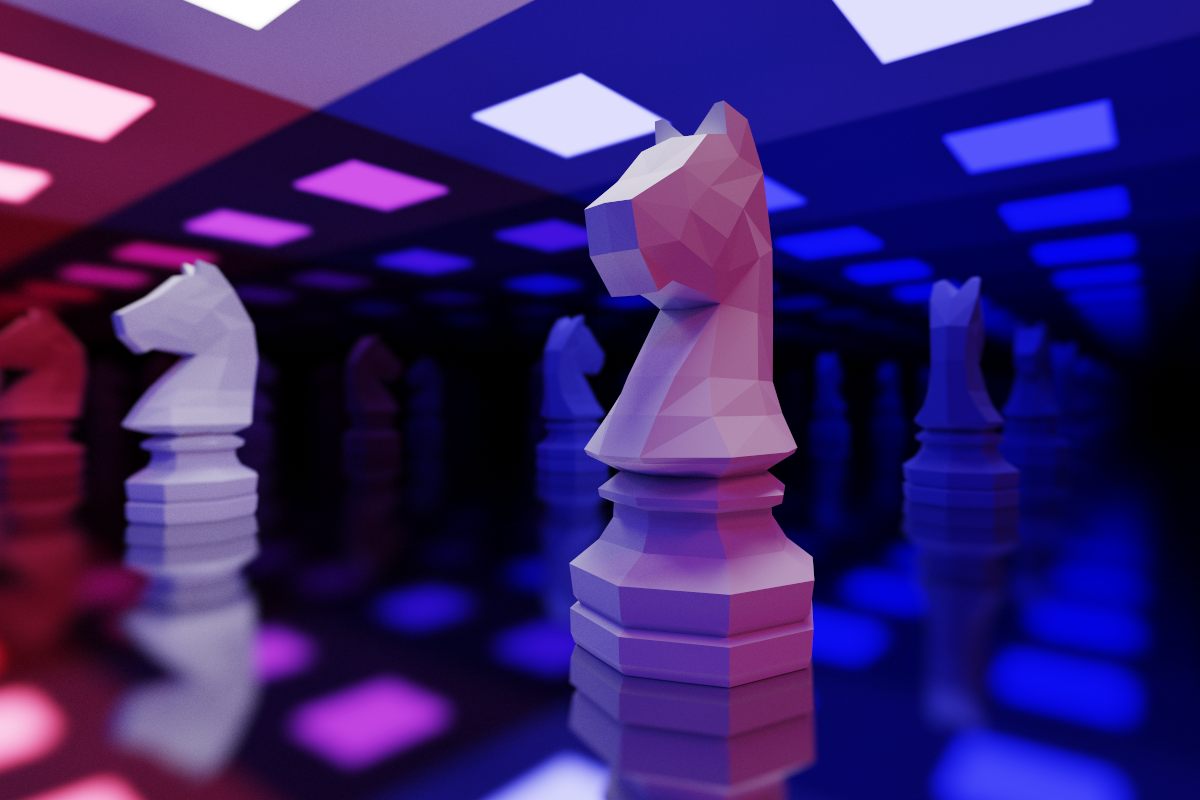
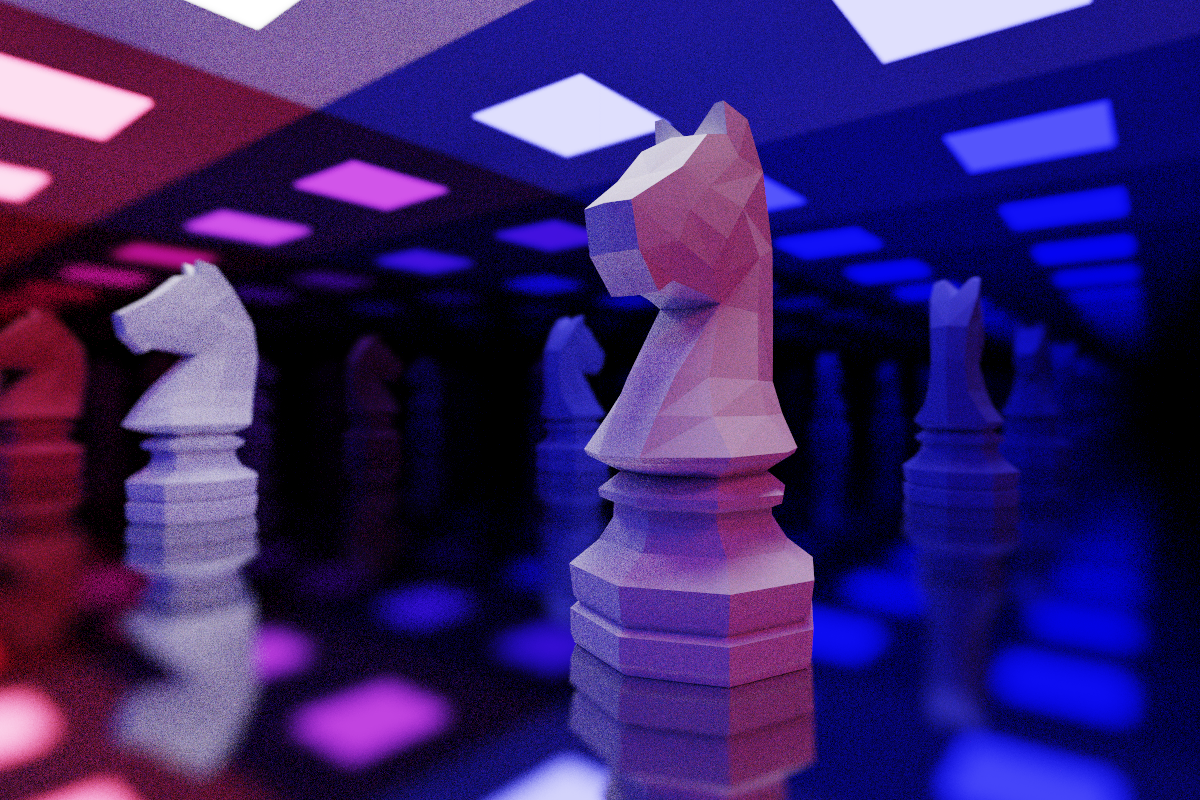
tmp_save

diff --git a/src/geometry/primitives.py b/src/geometry/primitives.py
@@ -96,13 +96,13 @@ class SphereSystem:
         # 并导致二次射线产生规律性的伪自相交。仅对大尺度球提升二次方程精度，
         # 普通球仍走更快的 float32 路径。
         if ti.abs(r) >= 1024.0:
-            ox = ti.cast(ray_origin[0], ti.f64) - ti.cast(c[0], ti.f64)
-            oy = ti.cast(ray_origin[1], ti.f64) - ti.cast(c[1], ti.f64)
-            oz = ti.cast(ray_origin[2], ti.f64) - ti.cast(c[2], ti.f64)
-            dx = ti.cast(ray_dir[0], ti.f64)
-            dy = ti.cast(ray_dir[1], ti.f64)
-            dz = ti.cast(ray_dir[2], ti.f64)
-            rd = ti.cast(r, ti.f64)
+            ox = ti.cast(ray_origin[0], ti.f32) - ti.cast(c[0], ti.f32)
+            oy = ti.cast(ray_origin[1], ti.f32) - ti.cast(c[1], ti.f32)
+            oz = ti.cast(ray_origin[2], ti.f32) - ti.cast(c[2], ti.f32)
+            dx = ti.cast(ray_dir[0], ti.f32)
+            dy = ti.cast(ray_dir[1], ti.f32)
+            dz = ti.cast(ray_dir[2], ti.f32)
+            rd = ti.cast(r, ti.f32)
             ad = dx * dx + dy * dy + dz * dz
             hbd = ox * dx + oy * dy + oz * dz
             cd = ox * ox + oy * oy + oz * oz - rd * rd
@@ -110,9 +110,9 @@ class SphereSystem:
             if discd >= 0.0:
                 sqrt_d = ti.sqrt(discd)
                 root = (-hbd - sqrt_d) / ad
-                if not (ti.cast(t_min, ti.f64) < root < ti.cast(t_max, ti.f64)):
+                if not (ti.cast(t_min, ti.f32) < root < ti.cast(t_max, ti.f32)):
                     root = (-hbd + sqrt_d) / ad
-                if ti.cast(t_min, ti.f64) < root < ti.cast(t_max, ti.f64):
+                if ti.cast(t_min, ti.f32) < root < ti.cast(t_max, ti.f32):
                     hit_t = ti.cast(root, ti.f32)
         elif disc >= 0.0:
             sqrt_d = ti.sqrt(disc)

diff --git a/main.py b/main.py
@@ -58,8 +58,8 @@ def main():
     # 2. 初始化 Taichi（全局只调用一次，在任何 ti.field 分配前）
     # ----------------------------------------------------------------
     import taichi as ti
-    backend_map = {'cuda': ti.cuda, 'vulkan': ti.vulkan, 'cpu': ti.cpu}
-    ti.init(arch=backend_map.get(cfg.backend, ti.cuda),
+    backend_map = {'cuda': ti.cuda, 'vulkan': ti.vulkan, 'cpu': ti.cpu, 'metal':ti.metal}
+    ti.init(arch=backend_map.get(cfg.backend, ti.cpu),
             default_fp=ti.f32,
             random_seed=42)
 
